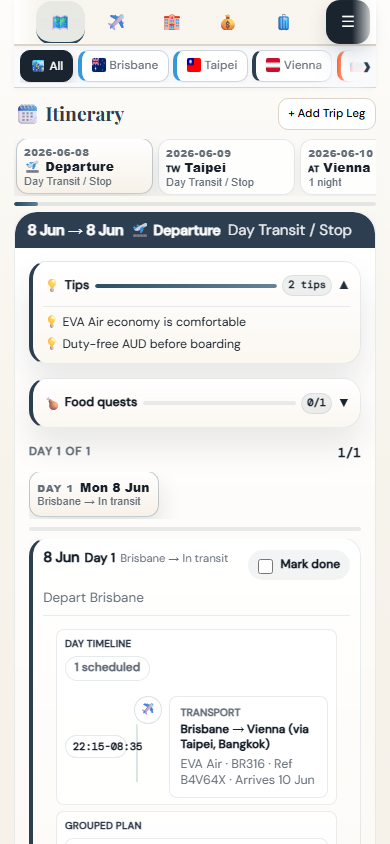
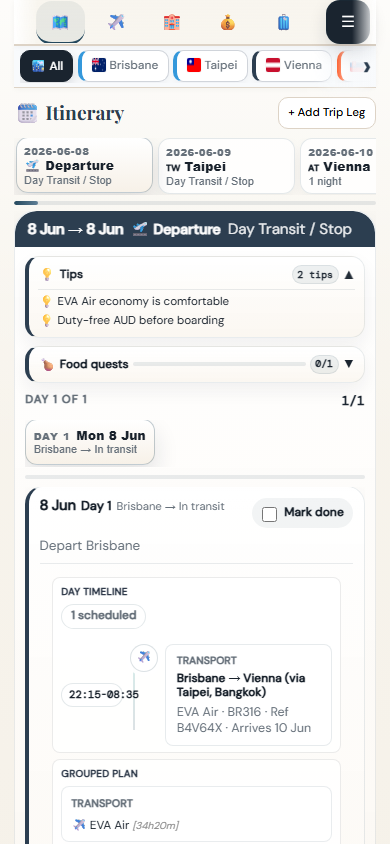
Tighten compact tips spacing for issue #104

diff --git a/style.css b/style.css
@@ -4454,7 +4454,7 @@ body.compact-view-mode .mobile-surface-card-details.expanded {
   color: var(--text);
   font: inherit;
   display: grid;
-  grid-template-columns: auto minmax(2.75rem, 1fr) auto auto;
+  grid-template-columns: minmax(0, 1fr) auto auto;
   align-items: center;
   gap: 0.34rem;
   text-align: left;
@@ -4481,20 +4481,6 @@ body.compact-view-mode .mobile-surface-card-details.expanded {
 .compact-tips-summary-icon {
   font-size: 0.82rem;
   line-height: 1;
-}
-
-.compact-tips-summary-meter {
-  height: 4px;
-  border-radius: 999px;
-  background: rgba(36, 72, 93, 0.1);
-  overflow: hidden;
-}
-
-.compact-tips-summary-meter span {
-  display: block;
-  height: 100%;
-  border-radius: inherit;
-  background: linear-gradient(90deg, var(--accent), #5f7f96);
 }
 
 .compact-tips-summary-count {
@@ -8332,6 +8318,53 @@ body.compact-view-mode .packing-item { font-size: 11px; }
 
   body.mobile-app-mode.compact-view-mode .mobile-surface-card-details {
     padding-top: 0.48rem;
+  }
+
+  body.mobile-app-mode.compact-view-mode .compact-leg-card .compact-leg-body {
+    gap: 0.46rem;
+    padding: 0.62rem;
+  }
+
+  body.mobile-app-mode.compact-view-mode .compact-tips-card,
+  body.mobile-app-mode.compact-view-mode .compact-food-quest-card {
+    padding: 0.48rem 0.56rem;
+    border-radius: 14px;
+    box-shadow: 0 8px 18px rgba(26, 36, 47, 0.06);
+  }
+
+  body.mobile-app-mode.compact-view-mode .compact-tips-summary,
+  body.mobile-app-mode.compact-view-mode .compact-food-summary {
+    min-height: 20px;
+    gap: 0.26rem;
+  }
+
+  body.mobile-app-mode.compact-view-mode .compact-tips-summary-title,
+  body.mobile-app-mode.compact-view-mode .compact-food-summary-title {
+    font-size: 0.74rem;
+  }
+
+  body.mobile-app-mode.compact-view-mode .compact-tips-summary-count,
+  body.mobile-app-mode.compact-view-mode .compact-food-summary-count {
+    font-size: 0.62rem;
+    padding: 0.04rem 0.28rem;
+  }
+
+  body.mobile-app-mode.compact-view-mode .compact-tips-card .mobile-surface-card-details,
+  body.mobile-app-mode.compact-view-mode .compact-food-quest-card .mobile-surface-card-details {
+    margin-top: 0.28rem;
+    padding-top: 0.3rem;
+  }
+
+  body.mobile-app-mode.compact-view-mode .compact-tips-card .compact-tips-list,
+  body.mobile-app-mode.compact-view-mode .compact-food-quest-card .compact-food-list {
+    gap: 0.24rem;
+  }
+
+  body.mobile-app-mode.compact-view-mode .compact-tips-card .compact-line-text,
+  body.mobile-app-mode.compact-view-mode .compact-food-quest-card .compact-line-text,
+  body.mobile-app-mode.compact-view-mode .compact-food-quest-card .compact-food-item {
+    font-size: 0.72rem;
+    line-height: 1.22;
   }
 
   body.mobile-app-mode.compact-view-mode .mobile-swipe-rail,

diff --git a/js/itinerary.js b/js/itinerary.js
@@ -166,13 +166,11 @@ function renderCompactTipsCard(leg, legIndex) {
   const expanded = isTipsCardExpanded(legId);
   const chevronSymbol = expanded ? '&#9650;' : '&#9660;';
   const countLabel = `${tips.length} tip${tips.length === 1 ? '' : 's'}`;
-  const progressWidth = tips.length > 0 ? 100 : 0;
 
   return `
     <article class="mobile-surface-card compact-tips-card" style="--card-accent:${escapeCompactText(leg.colour || '#24485d')};">
       <div class="compact-tips-summary" onclick="toggleTipsCardDetails(event, '${legId}')" style="cursor: pointer; user-select: none;">
         <span class="compact-tips-summary-title"><span class="compact-tips-summary-icon" aria-hidden="true">&#128161;</span> Tips</span>
-        <span class="compact-tips-summary-meter" aria-hidden="true"><span style="width:${progressWidth}%"></span></span>
         <span class="compact-tips-summary-count">${escapeCompactText(countLabel)}</span>
         <span class="compact-tips-summary-chevron" aria-hidden="true">${chevronSymbol}</span>
       </div>